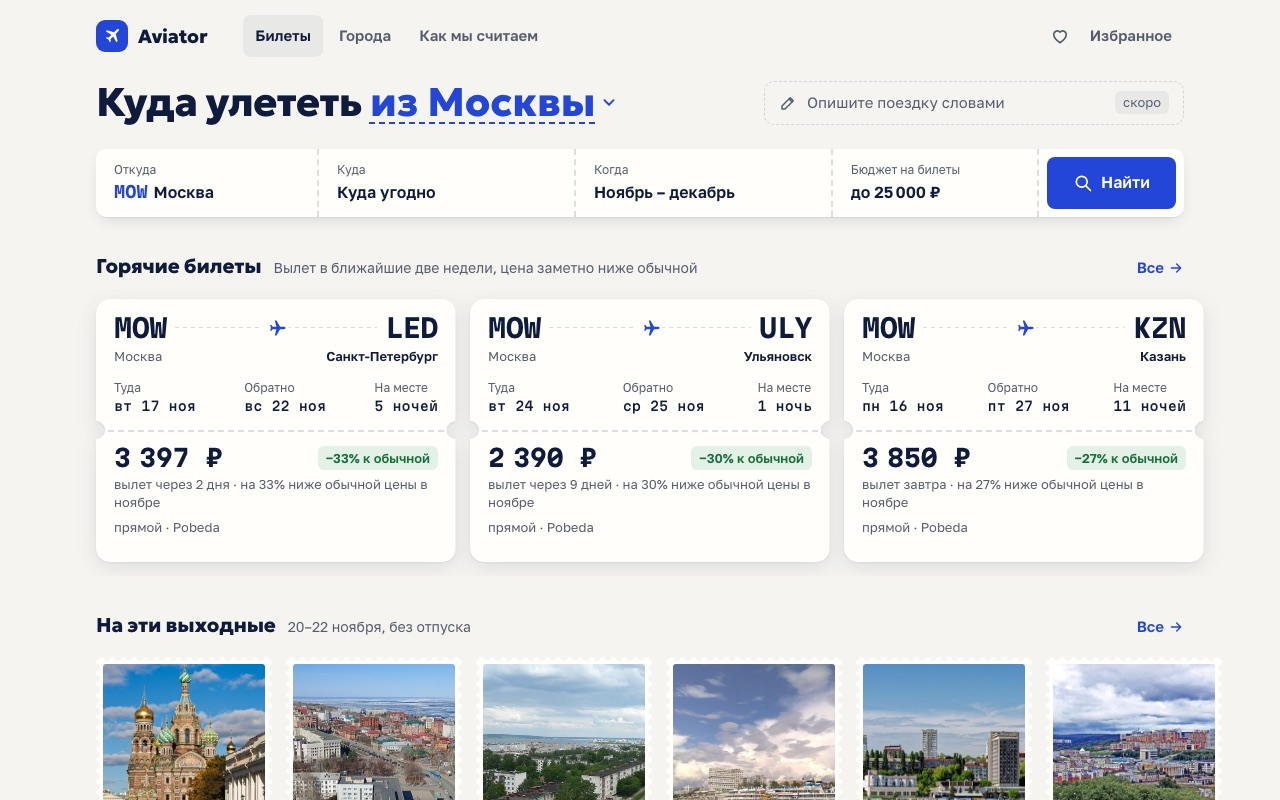
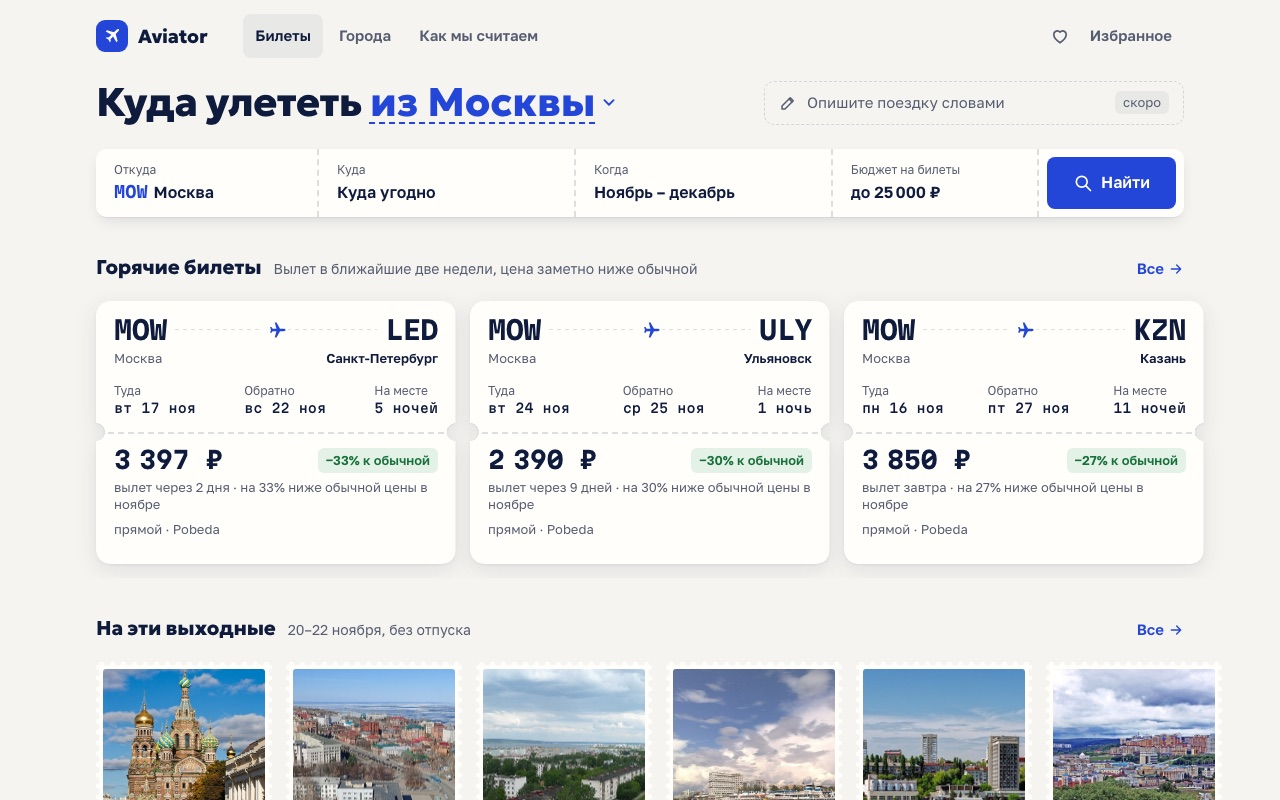
Проверка этапа 1: значок, области нажатия, длинные названия
Макеты больше не запрашивают несуществующий favicon.ico, кнопки и
ссылки не меньше 44 px, в варианте 2 длинное название города не
выталкивает цену за край на телефоне. Снимки пересняты, итоги проверки
в docs/handoffs/web-mvp.md, коммиты этапа — в docs/site-rework.md.

diff --git a/mockups/home/v2-okno.html b/mockups/home/v2-okno.html
@@ -4,6 +4,7 @@
 <meta charset="utf-8">
 <meta name="viewport" content="width=device-width, initial-scale=1, viewport-fit=cover">
 <title>Макет 2 · Иллюминатор — Aviator</title>
+<link rel="icon" href="../../web/favicon.svg" type="image/svg+xml">
 <link rel="stylesheet" href="fonts/fonts.css">
 <style>
 :root {
@@ -24,10 +25,10 @@ button { font: inherit; color: inherit; background: none; border: 0; padding: 0;
 .wrap { max-width: var(--page); margin: 0 auto; padding: 0 var(--gutter); }
 
 .top { display: flex; align-items: center; gap: 20px; height: 56px; }
-.brand { font: 600 22px/1 var(--f-head); text-decoration: none; letter-spacing: -.01em; display: flex; align-items: center; gap: 8px; }
+.brand { min-height: 44px; font: 600 22px/1 var(--f-head); text-decoration: none; letter-spacing: -.01em; display: flex; align-items: center; gap: 8px; }
 .brand .dot { width: 10px; height: 10px; border-radius: 50%; background: var(--cobalt); }
 .nav { display: none; gap: 22px; margin-left: 28px; font-size: 15px; }
-.nav a { text-decoration: none; color: var(--muted); padding: 10px 0; }
+.nav a { display: flex; align-items: center; min-height: 44px; text-decoration: none; color: var(--muted); }
 .nav a[aria-current] { color: var(--ink); box-shadow: inset 0 -2px var(--cobalt); }
 .from { margin-left: auto; display: inline-flex; align-items: center; gap: 6px; min-height: 44px; padding: 0 4px; font-weight: 600; font-size: 15px; }
 .from .ic { width: 18px; height: 18px; color: var(--cobalt); }
@@ -56,7 +57,7 @@ button { font: inherit; color: inherit; background: none; border: 0; padding: 0;
 .btn { display: inline-flex; align-items: center; gap: 8px; min-height: 44px; padding: 0 16px; border-radius: 10px; background: var(--ink); color: #fff; text-decoration: none; font-weight: 600; font-size: 15px; transition: background var(--t-fast) var(--ease); }
 .btn:hover { background: var(--cobalt); }
 .btn .ic { width: 18px; height: 18px; }
-.link { color: var(--cobalt); font-weight: 600; font-size: 15px; text-decoration: none; padding: 10px 4px; }
+.link { display: inline-flex; align-items: center; min-height: 44px; color: var(--cobalt); font-weight: 600; font-size: 15px; text-decoration: none; padding: 0 4px; }
 
 /* иллюминатор: рамка — стилями, фото не трогаем */
 .window { position: relative; grid-row: 2 / 4; grid-column: 2; aspect-ratio: 4 / 5; padding: 9px; border-radius: var(--r-window); background: linear-gradient(160deg, #fbfaf6, var(--paper-2)); box-shadow: inset 0 0 0 1px var(--line), 0 10px 24px -14px rgba(15, 27, 61, .45); }
@@ -77,11 +78,11 @@ button { font: inherit; color: inherit; background: none; border: 0; padding: 0;
 .shelf-hint { margin-top: 10px; font-size: 14px; color: var(--muted); }
 .list { list-style: none; padding: 0; margin-top: 6px; counter-reset: n; }
 .item { counter-increment: n; border-top: 1px solid var(--line); }
-.item a { display: grid; grid-template-columns: 22px 48px 1fr auto; gap: 12px; align-items: center; padding: 12px 0; text-decoration: none; }
+.item a { display: grid; grid-template-columns: 22px 48px minmax(0, 1fr) auto; gap: 12px; align-items: center; padding: 12px 0; text-decoration: none; }
 .item a::before { content: counter(n, decimal-leading-zero); font: 500 12px/1 var(--f-mono); color: var(--muted); align-self: start; padding-top: 6px; }
 .thumb { width: 48px; height: 58px; border-radius: var(--r-thumb); overflow: hidden; background: var(--cobalt-soft); box-shadow: 0 0 0 3px var(--card), 0 0 0 4px var(--line); }
 .thumb img { width: 100%; height: 100%; object-fit: cover; display: block; }
-.item h3 { font: 600 18px/1.2 var(--f-head); }
+.item h3 { font: 600 18px/1.2 var(--f-head); overflow-wrap: anywhere; }
 .meta { font-size: 13px; color: var(--muted); }
 .pr { text-align: right; }
 .pr b { font: 500 17px/1.2 var(--f-mono); white-space: nowrap; display: block; }
@@ -91,7 +92,7 @@ button { font: inherit; color: inherit; background: none; border: 0; padding: 0;
 .more { display: inline-flex; margin-top: 8px; }
 
 .foot { margin: 40px auto 32px; color: var(--muted); font-size: 13px; display: flex; flex-wrap: wrap; gap: 6px 18px; border-top: 1px solid var(--line); padding-top: 16px; }
-.foot a { color: var(--muted); }
+.foot a { color: var(--muted); display: inline-flex; align-items: center; min-height: 44px; }
 
 @media (min-width: 900px) {
   :root { --gutter: 48px; }

diff --git a/mockups/home/v1-talon.html b/mockups/home/v1-talon.html
@@ -4,6 +4,7 @@
 <meta charset="utf-8">
 <meta name="viewport" content="width=device-width, initial-scale=1, viewport-fit=cover">
 <title>Макет 1 · Посадочный талон — Aviator</title>
+<link rel="icon" href="../../web/favicon.svg" type="image/svg+xml">
 <link rel="stylesheet" href="fonts/fonts.css">
 <style>
 :root {
@@ -26,18 +27,18 @@ button { font: inherit; color: inherit; background: none; border: 0; padding: 0;
 
 /* шапка */
 .top { display: flex; align-items: center; gap: 24px; height: 56px; }
-.brand { display: flex; align-items: center; gap: 10px; font: 800 19px/1 var(--f-head); text-decoration: none; letter-spacing: -.01em; }
+.brand { min-height: 44px; display: flex; align-items: center; gap: 10px; font: 800 19px/1 var(--f-head); text-decoration: none; letter-spacing: -.01em; }
 .brand-mark { width: 32px; height: 32px; border-radius: 9px; background: var(--cobalt); color: #fff; display: grid; place-items: center; }
 .brand-mark .ic { width: 18px; height: 18px; }
 .nav { display: none; gap: 4px; margin-left: 12px; }
-.nav a { text-decoration: none; padding: 10px 12px; border-radius: 8px; font-weight: 600; font-size: 15px; color: var(--muted); }
+.nav a { display: flex; align-items: center; min-height: 44px; text-decoration: none; padding: 0 12px; border-radius: 8px; font-weight: 600; font-size: 15px; color: var(--muted); }
 .nav a[aria-current] { color: var(--ink); background: rgba(15, 27, 61, .06); }
 .top-fav { text-decoration: none; margin-left: auto; width: 44px; height: 44px; display: grid; place-items: center; border-radius: 10px; }
 
 /* заголовок и поиск */
 .intro { padding: 12px 0 18px; }
 h1 { font: 800 28px/1.12 var(--f-head); letter-spacing: -.02em; }
-.origin { font: inherit; color: var(--cobalt); text-decoration: underline dashed 2px; text-underline-offset: 6px; display: inline-flex; align-items: baseline; gap: 2px; }
+.origin { padding: 7px 0; margin: -7px 0; font: inherit; color: var(--cobalt); text-decoration: underline dashed 2px; text-underline-offset: 6px; display: inline-flex; align-items: baseline; gap: 2px; }
 .origin .ic { width: 22px; height: 22px; align-self: center; }
 .ai { margin-top: 14px; display: flex; align-items: center; gap: 10px; min-height: 44px; padding: 0 14px; border: 1px dashed var(--line); border-radius: var(--r-field); color: var(--muted); font-size: 15px; }
 .ai .ic { width: 18px; height: 18px; }
@@ -57,7 +58,7 @@ h1 { font: 800 28px/1.12 var(--f-head); letter-spacing: -.02em; }
 .row-head { display: flex; align-items: baseline; gap: 12px; }
 .row-head h2 { font: 800 20px/1.2 var(--f-head); letter-spacing: -.01em; }
 .row-hint { color: var(--muted); font-size: 14px; display: none; }
-.row-all { margin-left: auto; color: var(--cobalt); font-weight: 600; font-size: 15px; display: inline-flex; align-items: center; gap: 4px; text-decoration: none; padding: 10px 0; white-space: nowrap; }
+.row-all { margin-left: auto; color: var(--cobalt); font-weight: 600; font-size: 15px; display: inline-flex; align-items: center; gap: 4px; text-decoration: none; min-height: 44px; white-space: nowrap; }
 .row-all .ic { width: 16px; height: 16px; }
 .strip { display: flex; gap: 14px; overflow-x: auto; scroll-snap-type: x mandatory; padding: 10px var(--gutter) 14px; margin: 0 calc(-1 * var(--gutter)); scrollbar-width: none; }
 .strip::-webkit-scrollbar { display: none; }
@@ -101,7 +102,7 @@ h1 { font: 800 28px/1.12 var(--f-head); letter-spacing: -.02em; }
 .stamp-card .tag { display: inline-block; margin-top: 6px; }
 
 .foot { margin: 40px auto 32px; color: var(--muted); font-size: 13px; display: flex; flex-wrap: wrap; gap: 6px 18px; }
-.foot a { color: var(--muted); }
+.foot a { color: var(--muted); display: inline-flex; align-items: center; min-height: 44px; }
 
 @media (min-width: 900px) {
   :root { --gutter: 48px; }

diff --git a/mockups/home/v3-tablo.html b/mockups/home/v3-tablo.html
@@ -4,6 +4,7 @@
 <meta charset="utf-8">
 <meta name="viewport" content="width=device-width, initial-scale=1, viewport-fit=cover">
 <title>Макет 3 · Табло вылетов — Aviator</title>
+<link rel="icon" href="../../web/favicon.svg" type="image/svg+xml">
 <link rel="stylesheet" href="fonts/fonts.css">
 <style>
 :root {
@@ -26,11 +27,11 @@ button { font: inherit; color: inherit; background: none; border: 0; padding: 0;
 
 .sky { background: var(--navy); color: var(--on-navy); padding-bottom: 20px; }
 .top { display: flex; align-items: center; gap: 20px; height: 56px; }
-.brand { display: flex; align-items: center; gap: 10px; font: 700 19px/1 var(--f-head); text-decoration: none; }
+.brand { min-height: 44px; display: flex; align-items: center; gap: 10px; font: 700 19px/1 var(--f-head); text-decoration: none; }
 .brand-mark { width: 30px; height: 30px; border-radius: 8px; background: var(--cobalt); display: grid; place-items: center; }
 .brand-mark .ic { width: 17px; height: 17px; }
 .nav { display: none; gap: 4px; margin-left: 16px; }
-.nav a { text-decoration: none; padding: 10px 12px; border-radius: 8px; color: var(--on-navy-muted); font-size: 15px; font-weight: 600; }
+.nav a { display: flex; align-items: center; min-height: 44px; text-decoration: none; padding: 0 12px; border-radius: 8px; color: var(--on-navy-muted); font-size: 15px; font-weight: 600; }
 .nav a[aria-current] { color: var(--on-navy); background: var(--line-navy); }
 .from { margin-left: auto; display: inline-flex; align-items: center; gap: 6px; min-height: 44px; font-weight: 600; font-size: 15px; }
 .from b { font: 700 14px/1 var(--f-mono); color: var(--navy); background: var(--on-navy); border-radius: 4px; padding: 4px 5px; }
@@ -39,7 +40,7 @@ button { font: inherit; color: inherit; background: none; border: 0; padding: 0;
 .ai { display: flex; align-items: center; gap: 8px; min-height: 40px; color: var(--on-navy-muted); font-size: 14px; }
 .ai .ic { width: 16px; height: 16px; }
 .ai i { font-style: normal; font-size: 12px; padding: 1px 7px; border-radius: 6px; background: var(--line-navy); }
-.bar { display: flex; align-items: center; background: var(--on-navy); color: var(--navy); border-radius: var(--r-field); min-height: 52px; }
+.bar { display: flex; align-items: center; background: var(--on-navy); color: var(--navy); border-radius: var(--r-field); min-height: 54px; }
 .bar-sum { flex: 1; min-width: 0; padding: 6px 14px; text-align: left; display: grid; }
 .bar-sum b { font-weight: 600; font-size: 15px; }
 .bar-sum small { color: var(--muted); font-size: 13px; white-space: nowrap; overflow: hidden; text-overflow: ellipsis; }
@@ -87,7 +88,7 @@ h1 { font: 700 26px/1.1 var(--f-head); letter-spacing: -.01em; }
 .board-foot .ic { width: 16px; height: 16px; }
 
 .foot { margin: 28px auto 32px; color: var(--muted); font-size: 13px; display: flex; flex-wrap: wrap; gap: 6px 18px; }
-.foot a { color: var(--muted); }
+.foot a { color: var(--muted); display: inline-flex; align-items: center; min-height: 44px; }
 
 @media (min-width: 900px) {
   :root { --gutter: 48px; }

diff --git a/mockups/home/index.html b/mockups/home/index.html
@@ -4,6 +4,7 @@
 <meta charset="utf-8">
 <meta name="viewport" content="width=device-width, initial-scale=1">
 <title>Три варианта главной — Aviator</title>
+<link rel="icon" href="../../web/favicon.svg" type="image/svg+xml">
 <link rel="stylesheet" href="fonts/fonts.css">
 <style>
 :root { --paper: #e9e7e1; --ink: #0f1b3d; --muted: #565d70; --cobalt: #2346d8; }

diff --git a/docs/handoffs/web-mvp.md b/docs/handoffs/web-mvp.md
@@ -122,3 +122,34 @@
 Что дальше:
 - Этап 2 (основа) по варианту 1 — по отдельной просьбе владельца. Учесть: варианту 1 нужны уменьшенные копии фото для марок (исходные файлы не трогать), иначе первый экран весит ~1–1,5 МБ.
 - Горизонтальная прокрутка на телефоне на боевом сайте пока не исправлена: сама уйдёт при переводе экранов на новую систему в этапе 2, если владелец не попросит исправить раньше.
+
+## Проверка этапа 1 — 15.11.2026
+
+Проверял тот же запуск, что делал этап (по просьбе владельца, в том же чате), поэтому проверка менее независима, чем задумано в `docs/site-rework-check.md`-задании.
+
+Проверено:
+- Изменения этапа (`93132c8..d728dca`): только добавления в `docs/` и `mockups/`; `web/` и `backend/` не тронуты; ключей и паролей нет, `backend/.env` в git не попал.
+- `pytest` — 171 прошёл; `node --check` для `common.js`, `data.js` и встроенных скриптов трёх макетов; `/health` отвечает.
+- Макеты в свежем Chrome на 375×812 и 1280×800, обычные и с длинным городом «Петропавловск-Камчатский» и ценой 125 990 ₽: ширина страницы равна ширине окна, запросы только к своему адресу, ошибок нет.
+- Цифры: 8 карточек (все горячие, три с уровнем цены из «До 10 000 ₽», две из «До 5 000 ₽») пересчитаны независимым кодом по сохранённым ответам `/api/v1/search/web` от 15.11 23:00 мск — цена, даты, «обычная» цена, процент, уровень и дни до вылета сошлись. 5 карточек «На эти выходные» сверены со свежим ответом поиска (23:33 мск): 4 совпали, у Самары цена изменилась с 5 859 на 5 749 ₽ — снимок датирован, так и должно быть.
+- Список запретов из раздела 5: нет разрядки заглавными, фиолетовых градиентов, «стекла», эффектов при прокрутке, эмодзи, цветных полос сбоку; у скруглений разные роли.
+- Боевой сайт (не менялся): `/mockups/…`, `/docs/…`, `/.env`, `/backend/.env` отвечают 404; на телефоне 375 страница шириной 454 px — ошибка подтверждена; на 1280 и 375 ошибок в консоли нет, запросы только к своему адресу.
+
+Найдено и исправлено:
+- Все макеты запрашивали `/favicon.ico` и получали 404 — в консоли была ошибка, а запись этапа утверждала, что ошибок нет. Добавлен значок `web/favicon.svg`.
+- Вариант 2 на телефоне: длинное название города выталкивало цену за край (страница 404 px). Колонка названия теперь сжимается и переносится.
+- Области нажатия меньше 44 px: логотип, пункты меню, «Город вылета» в заголовке (вариант 1), «Все →», «Ещё горячие», кнопка поиска (вариант 3), ссылки в подвале. Доведены до 44 px.
+- Снимки `mockups/home/shots/` переснята после правок.
+
+Найдено и оставлено (решать на следующих этапах или владельцу):
+- Вариант 1 на компьютере: в «Горячих билетах» ровно три одинаковые карточки со значком самолёта — похоже на запрещённую схему «три карточки со значками». Причина в данных (под правило попало 3 города); при 6–12 билетах ряд станет обычной лентой. Связано с отдельным сбором данных в этапе 3.
+- Уровень цены объяснён только всплывающей подсказкой при наведении — на телефоне её не увидеть. По заданию объяснение по нажатию — этап 3.
+- Строка ИИ подписана «скоро» — это обещание без срока. Владельцу решить: оставить, убрать слово или заменить.
+- В форме макетов «Ноябрь – декабрь» — такого выбора в нынешнем поиске нет (только один месяц или точные даты). Решить в этапе 2–3.
+- В стилях макетов есть цвета и скругления, записанные напрямую, а не переменными. Это макеты; в этапе 2 всё переходит в переменные `docs/design-system.md`.
+- Первый экран варианта 1 весит ~1–1,5 МБ из-за фото 720 px в марках — нужны уменьшенные копии (этап 2).
+- `mockups/home/build_data.py` — одноразовый скрипт снимка: дата и Москва зашиты. Настоящие правила подборок с тестами — этап 3.
+- Горизонтальная прокрутка на телефоне на боевом сайте не исправлена: этап 1 боевой сайт не меняет. Решение владельца.
+- Локальный `python3 -m http.server` держит очередь только из 5 соединений и под нагрузкой (обзор с тремя макетами) иногда сбрасывает загрузку шрифтов. На сервере с очередью 128 все 13 загрузок чистые. К макетам и к боевому сайту не относится.
+
+Не проверено: реальные телефоны и Safari; региональный город вылета (данные собирались только из Москвы — по заданию это этап 3).

diff --git a/docs/site-rework.md b/docs/site-rework.md
@@ -157,7 +157,7 @@
 
 ### Этап 1. Разбор и три варианта первого экрана
 
-> **Сделано 15.11.2026.** Макеты и снимки — `mockups/home/`, итоги — `docs/handoffs/web-mvp.md`, раздел «Перестройка сайта, этап 1». Владелец выбрал вариант 1 «Посадочный талон».
+> **Сделано 15.11.2026.** Макеты и снимки — `mockups/home/`, итоги — `docs/handoffs/web-mvp.md`, раздел «Перестройка сайта, этап 1». Владелец выбрал вариант 1 «Посадочный талон». Коммиты этапа: `2b571b2`, `d728dca`; проверка этапа — следующий коммит после них (раздел «Проверка этапа 1» в `web-mvp.md`).
 
 1. Сними текущую главную и карточку поездки на 375×812 и 1280×800. Составь список проблем. Уже известные: на компьютере первый экран целиком занят фото и формой, билетов не видно; 60 одинаковых карточек без групп; непонятно, хорошая ли цена; служебные слова на виду; город вылета всегда Москва; у городов нет своих страниц; «Как зарабатываем» стоит в главном меню.
 2. Посмотри, как устроены первые экраны у Aviasales, Яндекс Путешествий, Туту, Skyscanner, Google Flights: что там привычно для человека и чего у них нет.
